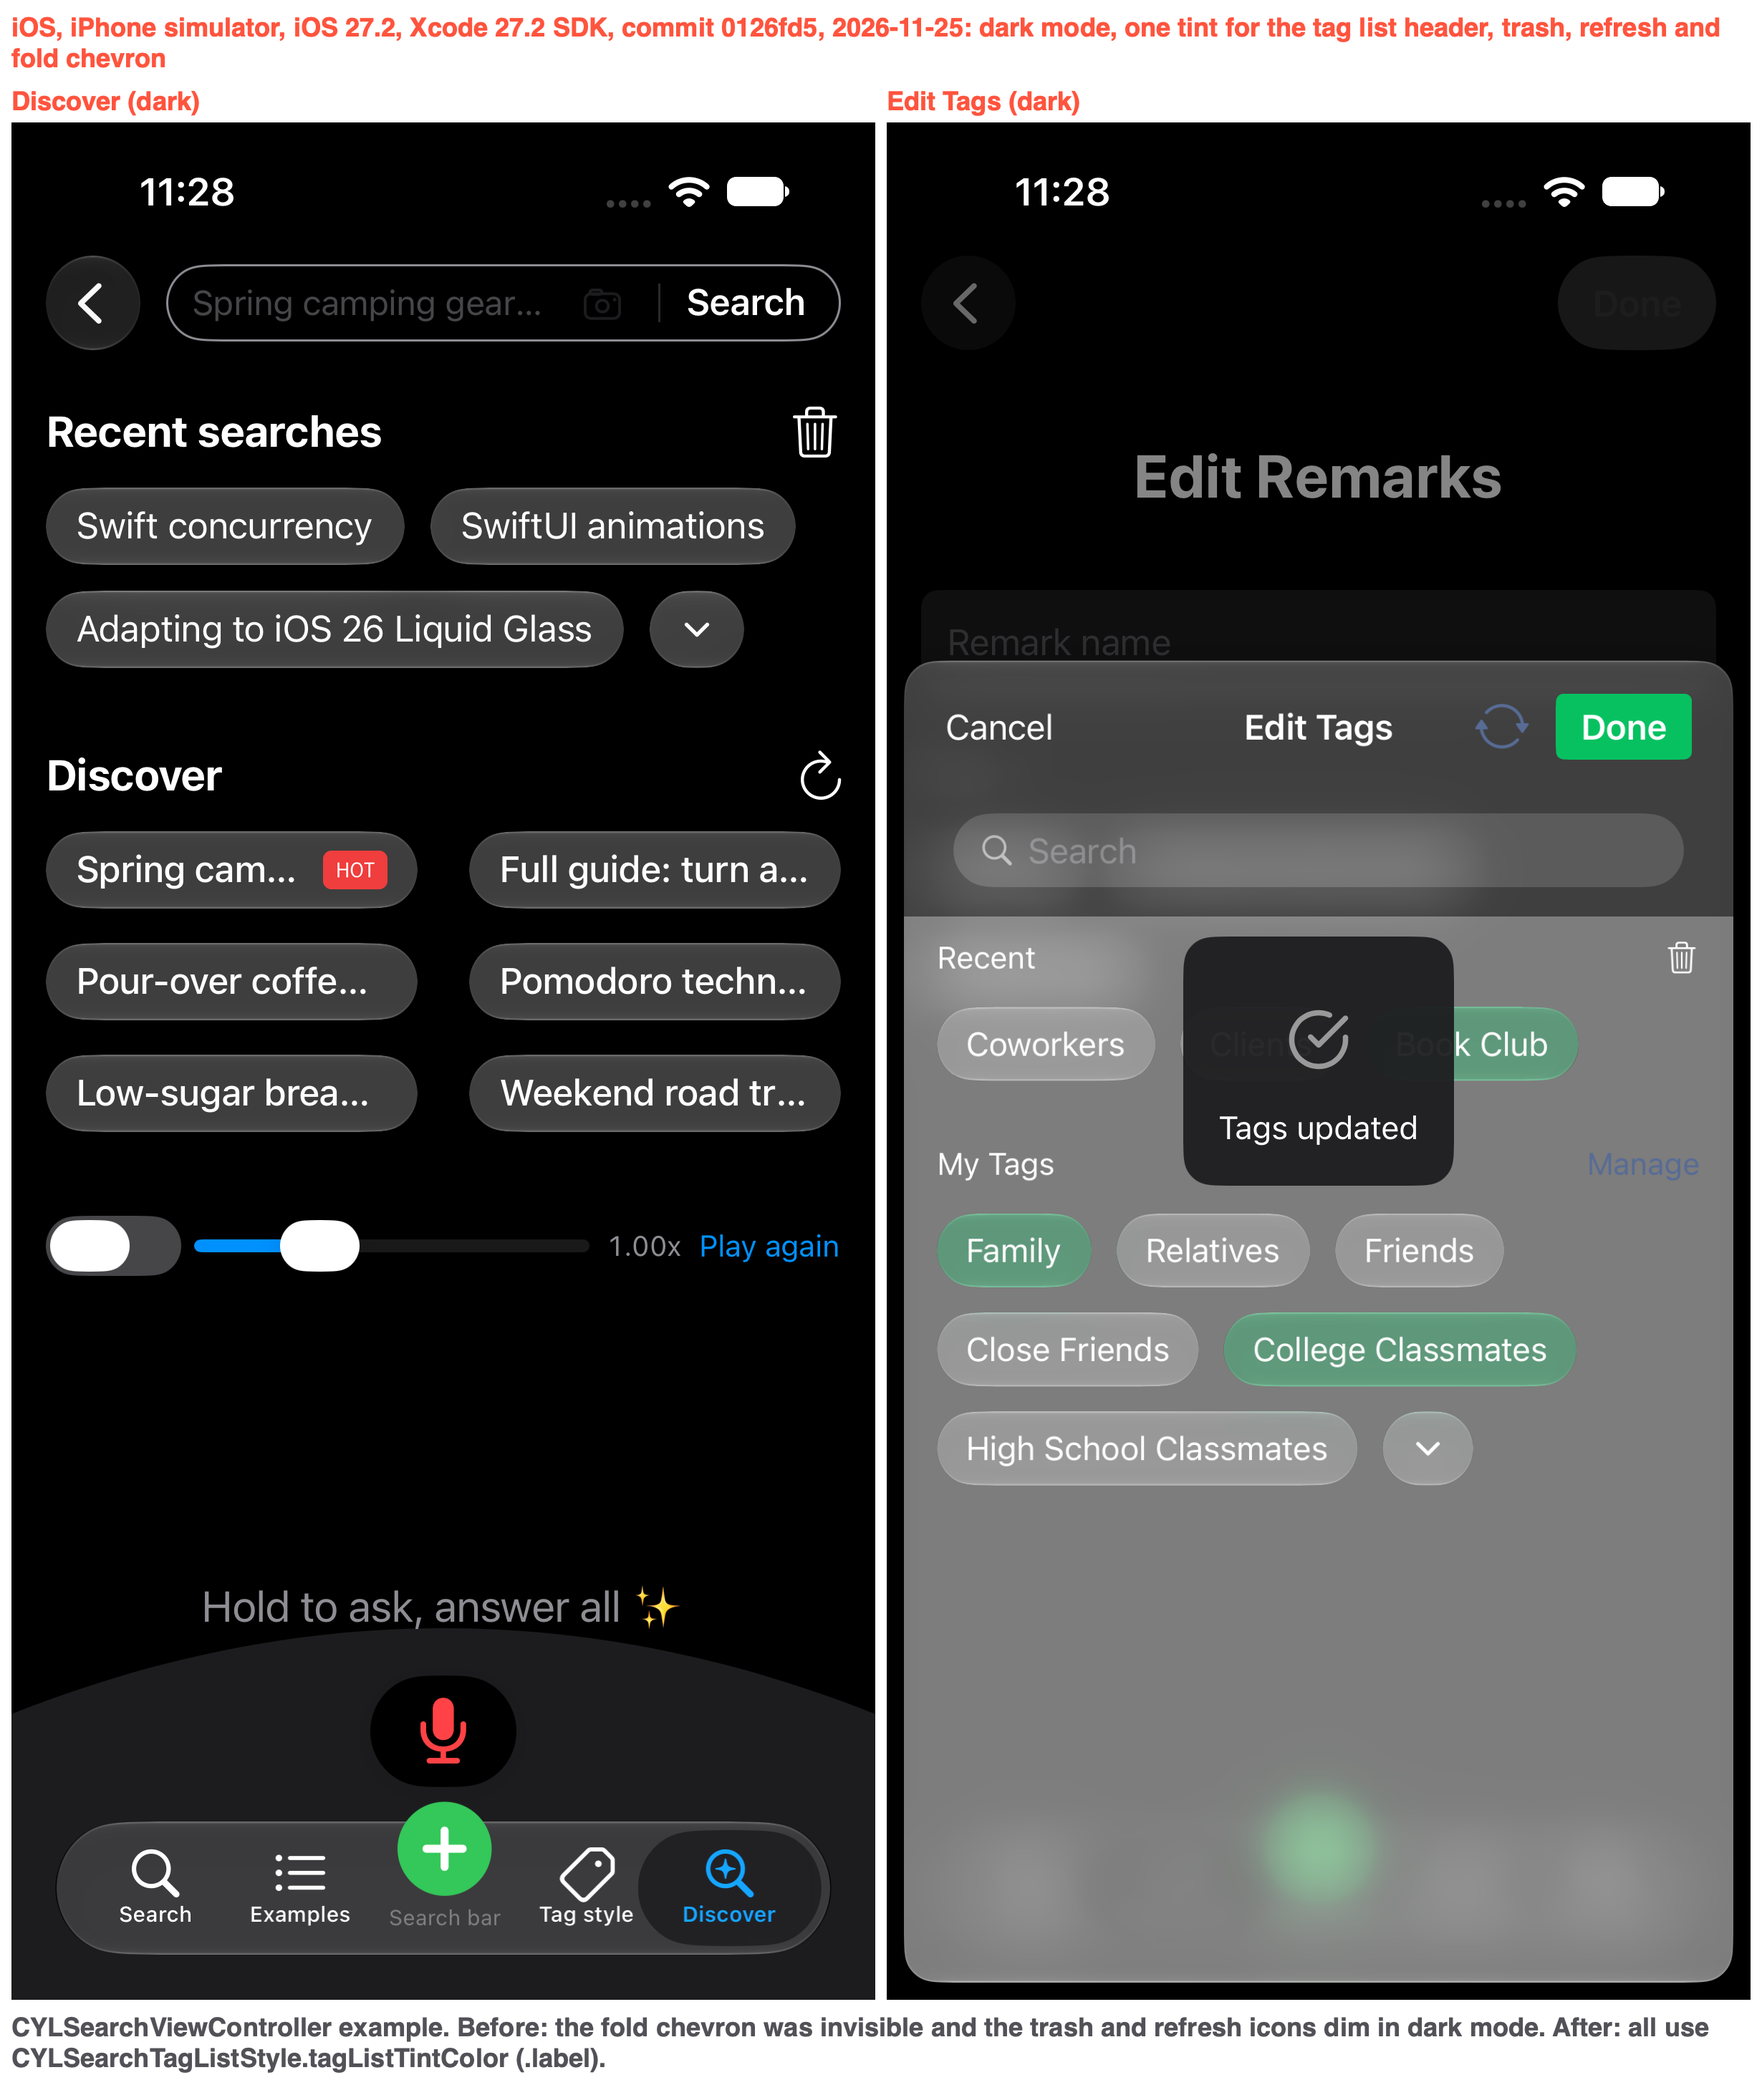
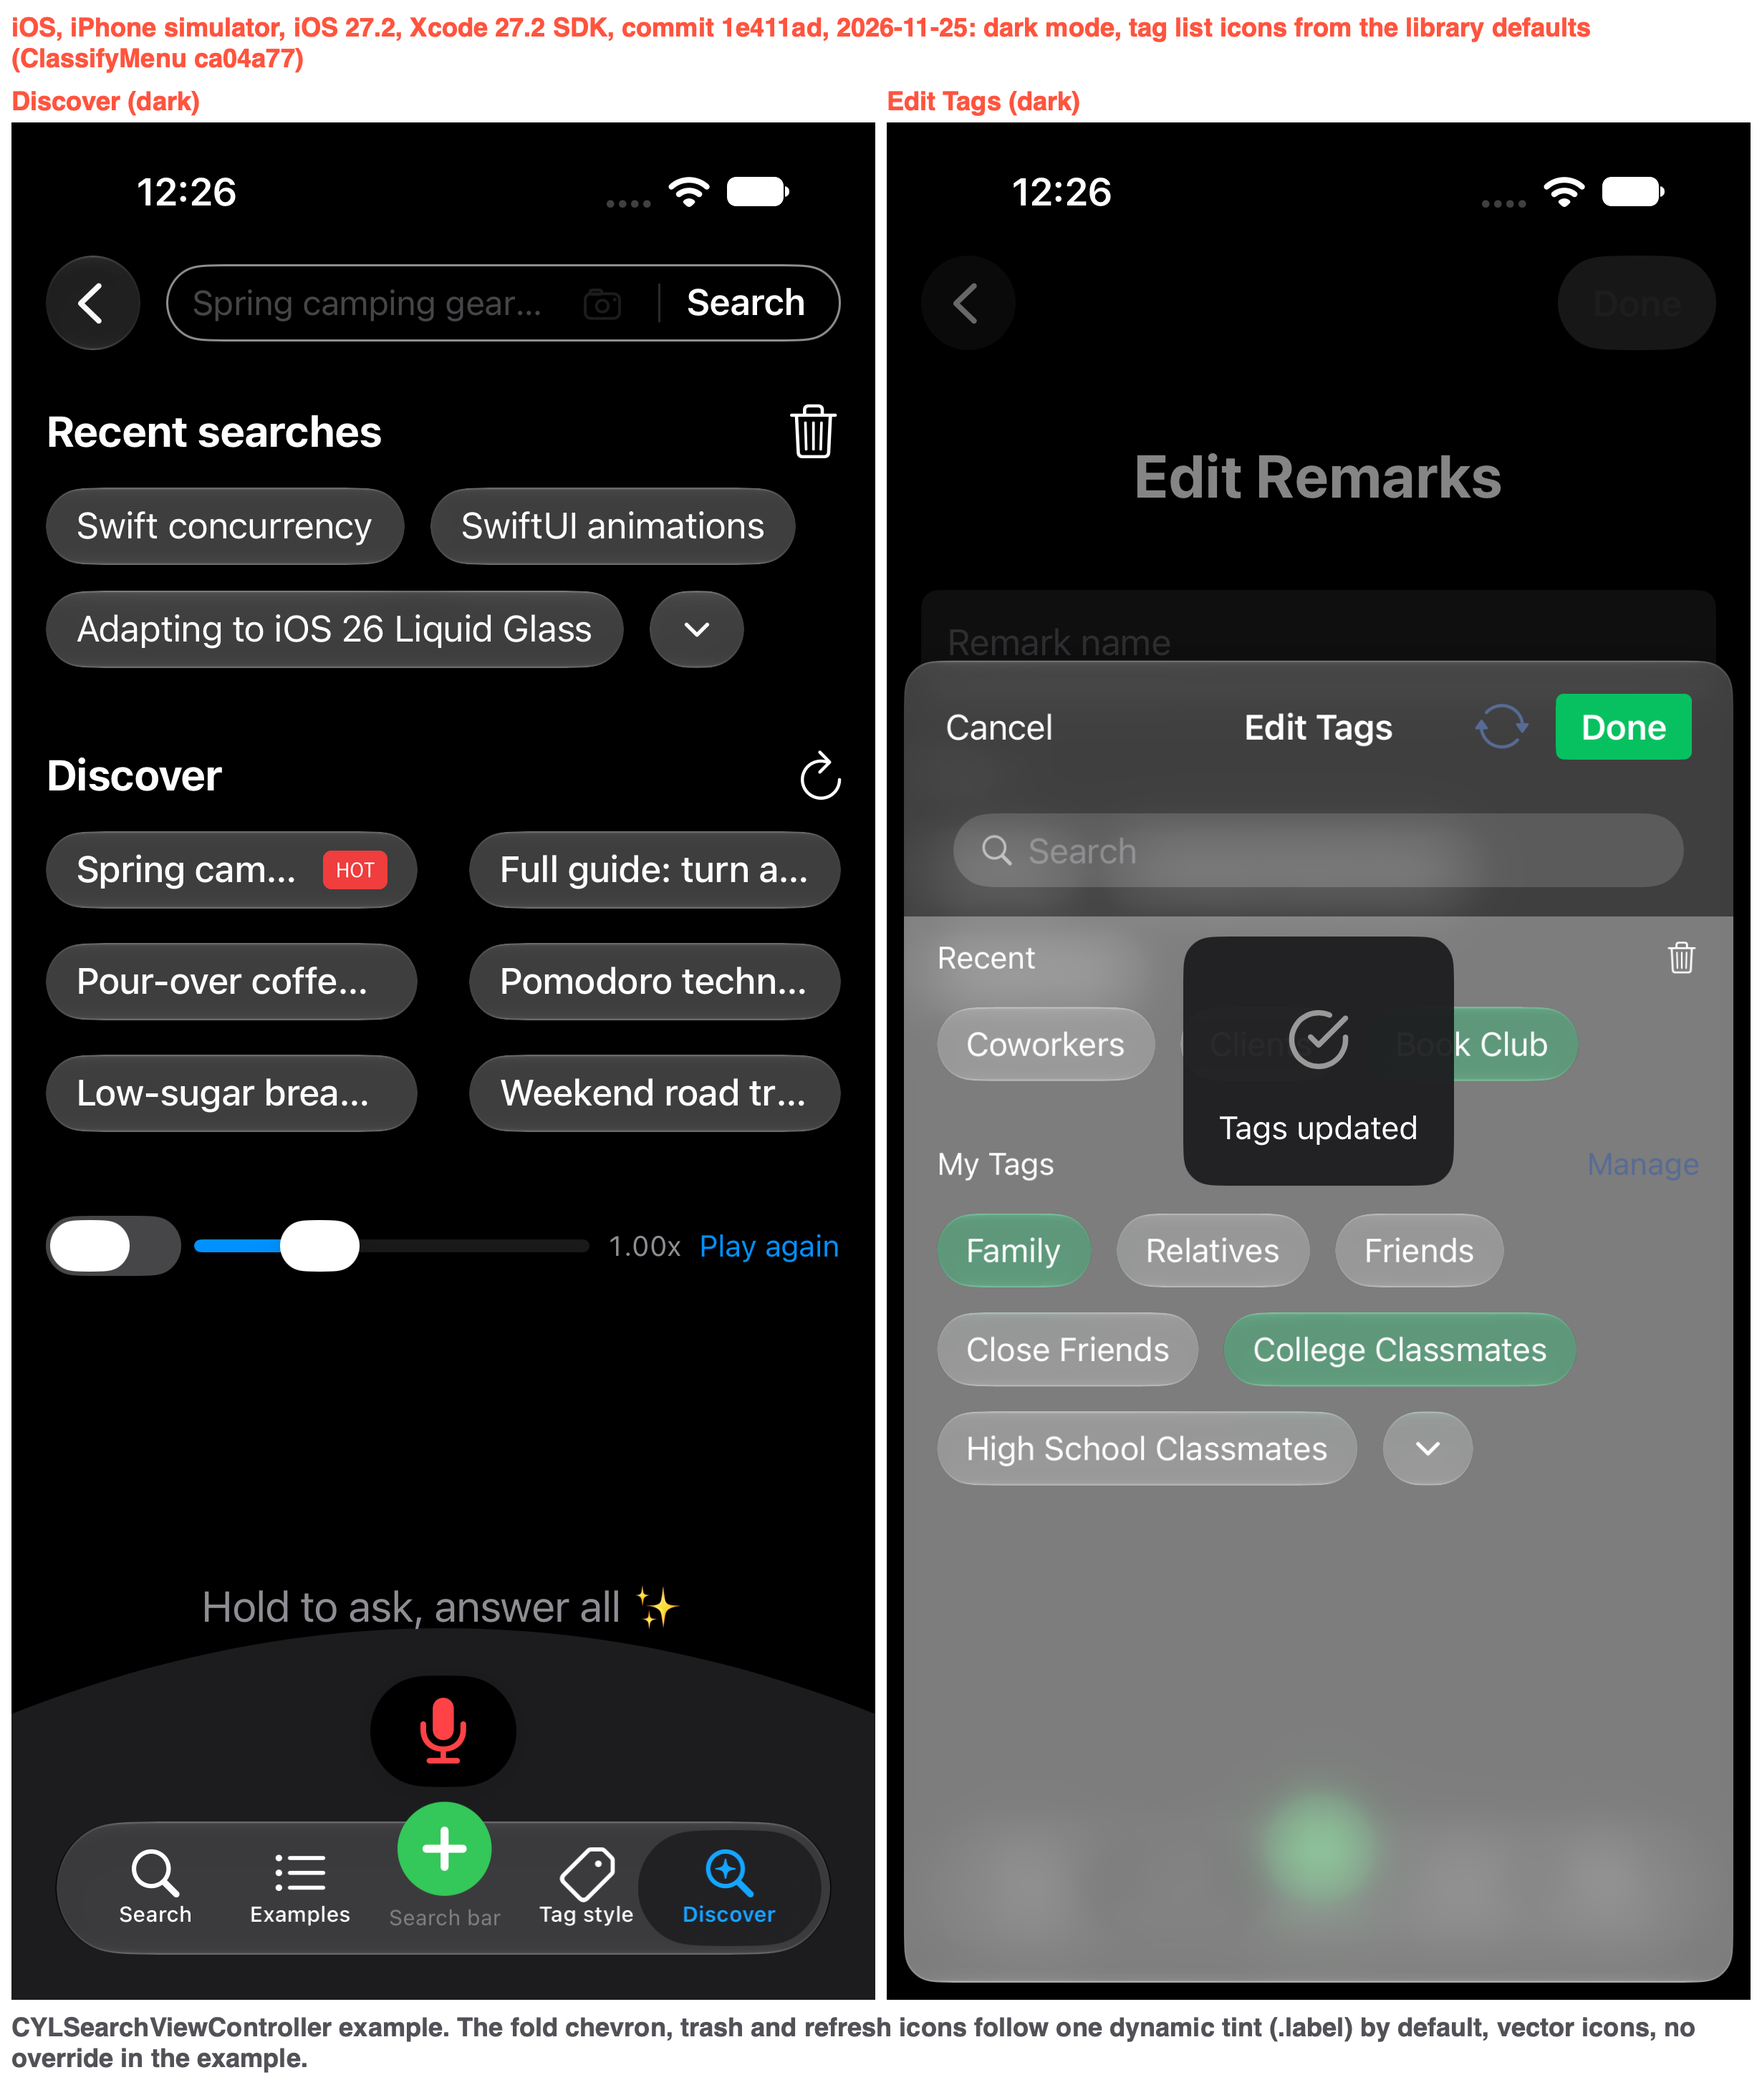
docs: 📸 tag list tint from the library defaults
By  @ChenYilong <luohanchenyilong@163.com>

Claude-Session: https://claude.ai/code/session_017y7XNzPUTD1qDqdiasqxb1

diff --git a/docs/task-log.md b/docs/task-log.md
@@ -1555,3 +1555,5 @@ begins and becomes `DONE` when it ends.
 - **Done**: `CYLSearchTagListStyle.tagListTintColor` (.label, dynamic) and `applyTint(to:)` set the header title, clear button (vector SF Symbol "trash", template), refresh/More icon and fold chevron colors; the core defaults, the grid and the three iOS examples use it. The fold chevron, trash and refresh icons are visible and sharp in dark mode.
 - **Not done**: the library (ClassifyMenu) still defaults to gray for the fold chevron and secondaryLabel for the More icon when a host does not set them; a library default that follows the view's `tintColor` is a ClassifyMenu change (message sent). The example's own sync button and the search field's camera icon in dark mode are not tag list parts.
 - **Status**: DONE for iOS core + examples (full suite not rerun after this change).
+
+- **Update (2026-11-25, Mac session)**: ClassifyMenu ca04a77 now defaults the header title, fold chevron, More icon and clear button to one dynamic tint (.label) with vector icons, so the core and the examples dropped their overrides (`applyTint`, `tagListTintColor`); same dark-mode result, screenshot replaced (commit 1e411ad). Pins: ClassifyMenu ca04a77 + tab bar 11fc94be; iOS suite 201/0. Android, HarmonyOS and the mini program defaults are still fixed grays (Windows follow-up).
